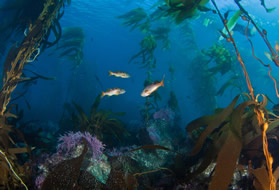
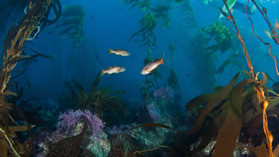
resize tease pics to be uniform; restyle featured section

diff --git a/src/app/in-memory-data.service.ts b/src/app/in-memory-data.service.ts
@@ -47,7 +47,7 @@ export class InMemoryDataService implements InMemoryDbService {
         body: "NOAA Fisheries has awarded more than $2.4 million to partners around the country to support innovative bycatch reduction research projects through its Bycatch Reduction Engineering Program. Bycatch of various species--fish, marine mammals, or turtles--can have significant biological, economic, and social impacts. Preventing and reducing bycatch is a shared goal of fisheries managers, the fishing industry, and the environmental community. Working side-by-side with fishermen on their boats, NOAA Fisheries has developed solutions to some of the top bycatch challenges facing our nation's fisheries. Ongoing regional projects include: Creation of an enhanced communication network and real-time maps to allow longfin squid fishermen to avoid butterfish \"hot spots\" and reduce bycatch by 54 percent in the Northeast. Development of a modified gill-net in the Mid-Atlantic that reduced sturgeon interactions by 64 percent in Virginia's striped bass fishery. Use of LED lights on the West Coast to reduce endangered Columbia River smelt bycatch in the ocean shrimp trawl fishery by 91 percent. 2016 Award Recipients The newly-awarded projects support bycatch reduction research around the country and address a variety of species, including Chinook salmon, Pacific rockfish, shrimp, swordfish, halibut, coastal sharks, skates, sea turtles, whales, and other marine mammals."
     },
     {
-        title: "Enhancing Protections for Hawaiian Spinner Dolphins to Prevent Disturbance - Proposed Rule and Draft Environmental Impact Statement",
+        title: "Enhancing Protections for Hawaiian Spinner Dolphins to Prevent Disturbance",
         date: "August 23, 2016",
         pic: "spinners.jpg",
         topic: "Protected Resources",

diff --git a/src/app/featured/featured.component.html b/src/app/featured/featured.component.html
@@ -4,15 +4,20 @@
     <h2>Fisheries News</h2>
 
     <div *ngFor="let article of articles | filterTopic:filteringFor | slice:0:articleMax" class="article col-md-6">
-      <h4>{{article.title}}</h4>
       <img src="/assets/{{article.pic}}" alt="{{article.title}}">
-      <p>{{article.body | slice:0:240 }} ...</p>
-      <i>Published: {{article.date}}</i>
-      <button type="button" class="btn btn-default topic-btn" (click)='filterFor(article.topic)'>{{article.topic}}</button>
+      <div class="topic-badge">{{article.topic}}</div>
+
+      <!--<button type="button" class="btn btn-default topic-btn" (click)='filterFor(article.topic)'>{{article.topic}}</button>-->
+      
+      <div class="tease">
+        <h4>{{article.title}}</h4>
+        <p>{{article.body | slice:0:60 }}</p>
+      </div>
+      <!--<i>Published: {{article.date}}</i>-->
     </div>
 
     <div *ngIf="hideMoreButton()" class="col-md-12 center-block">
-      <button type="button" (click)="getMoreArticles()" class="btn btn-primary btn-sm center-block">More</button>
+      <button type="button" (click)="getMoreArticles()" class="btn btn-default btn-md center-block">More</button>
     </div>
 
 <!--doesn't work heere-->

diff --git a/src/app/featured/featured.component.css b/src/app/featured/featured.component.css
@@ -11,15 +11,30 @@ h2 {
 
 .article {
     padding:5px 25px 5px 15px;
-    height:380px;
+    height:370px;
     margin-bottom: 10px;
 }
 
 .article img {
-    float:left;
-    height:120px;
-    width: auto;
-    margin: 0 15px 15px 0;
+    /*float:left;
+    height:120px;*/
+    /*margin: 0 15px 15px 0;*/
+    width: 100%;
+}
+
+.topic-badge {
+    display:inline-block;
+    background-color: black;
+    color: white;
+    padding:10px 15px;
+    position:relative;
+    top: -40px;
+}
+
+.tease {
+    display:block;
+    position:relative;
+    top: -40px; 
 }
 
 .topic-btn {

diff --git a/src/app/footer/footer.component.css b/src/app/footer/footer.component.css
@@ -5,10 +5,6 @@
     /*color: white;*/
 }
 
-.footer {
-    border: 1px solid black;
-}
-
 .copyright {
     margin: 20px 0;
 }
